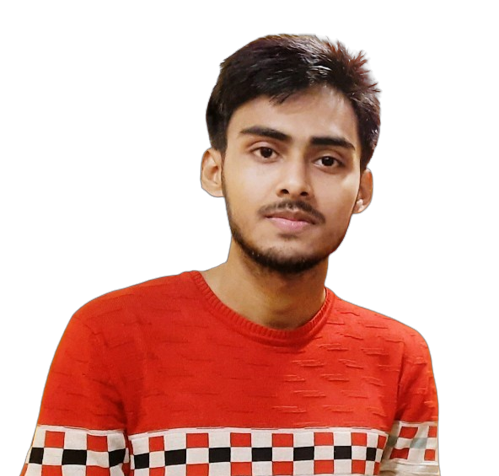
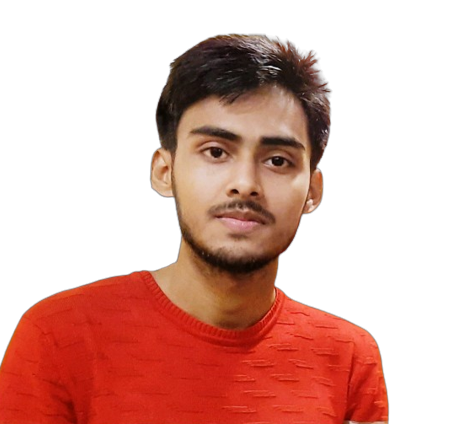
profile image modified with some css works

diff --git a/src/Pages/ProjectDetail/ProjectDetail.js b/src/Pages/ProjectDetail/ProjectDetail.js
@@ -64,11 +64,11 @@ const ProjectDetail = () => {
         <section className='bg-primary text-white lg:flex lg:px-20'>
 
             <div className='flex flex-col gap-4 py-10 lg:px-10 text-center px-20 t-0 b-0 lg:fixed z-10 w-full lg:w-2/12'>
-                <a href={gitClient} target='_blank' rel='noreferrer' className='border-2 border-orange-600 hover:bg-green-800 mx-5 lg:mx-0 py-2 lg:px-5 lg:py-2 text-orange-400 hover:text-white'>GitHub client</a>
+                <a href={gitClient} target='_blank' rel='noreferrer' className='border-2 border-teal-600  mx-5 lg:mx-0 py-2 lg:px-5 lg:py-2 text-white hover:text-orange-500'>GitHub Client</a>
 
-                <a href={gitServer} target='_blank' rel='noreferrer' className='border-2 border-orange-600 hover:bg-green-800 mx-5 lg:mx-0 py-2 text-orange-400 lg:px-5 lg:py-2 hover:text-white'>GitHub server</a>
+                <a href={gitServer} target='_blank' rel='noreferrer' className='border-2 border-teal-600 mx-5 lg:mx-0 py-2 lg:px-5 lg:py-2 text-white hover:text-orange-500'>GitHub Server</a>
 
-                <a href={liveSite} target='_blank' rel='noreferrer' className='border-2 border-orange-600 bg-green-800 mx-5 lg:mx-0 py-2 hover:bg-green-600 lg:px-5 lg:py-2 text-white'>Live Site</a>
+                <a href={liveSite} target='_blank' rel='noreferrer' className='border-2 border-teal-600 mx-5 lg:mx-0 py-2 lg:px-5 lg:py-2 text-white hover:text-orange-500'>Live Site</a>
             </div>
 
             <div className='flex flex-col gap-4 py-10 mx-4 lg:w-full lg:mx-0 relative'>

diff --git a/src/Pages/Contact/Contact.js b/src/Pages/Contact/Contact.js
@@ -20,7 +20,7 @@ const Contact = () => {
         <section className='px-5 py-10 lg:px-40 lg:py-20' id="contact">
 
             <div className='mb-10 lg:mb-20'>
-                <h1 className='text-5xl text-secondary font-semibold'>Contact <span className='text-orange-600'>Me</span></h1>
+                <h1 className='text-5xl text-secondary font-semibold'>Contact <span className='text-orange-500'>Me</span></h1>
                 <h1 className='text-lg text-gray-400'>Get in touch with me</h1>
             </div>
 
@@ -79,7 +79,7 @@ const Contact = () => {
                                 <textarea name='message' rows="4" placeholder='Type Your Message' className='form-control bg-[#EFEFEF] w-full mt-2 py-4 px-3 outline-none rounded-sm' required />
                             </div>
 
-                            <input type="submit" value="Send Message" className='form-control btn bg-orange-500 hover:bg-orange-600 text-white w-2/4 lg:w-1/3 py-3 lg:px-8 mt-5 rounded-sm font-bold' />
+                            <input type="submit" value="Send Message" className='form-control btn bg-orange-600 hover:bg-orange-500 text-white w-2/4 lg:w-1/3 py-3 lg:px-8 mt-5 rounded-sm font-bold' />
                         </div>
 
                     </form>

diff --git a/src/Pages/Skills/Skills.js b/src/Pages/Skills/Skills.js
@@ -34,8 +34,8 @@ const Skills = () => {
 
                 <h1 className='text-5xl text-secondary pb-10'><span className='text-orange-500'>About </span>Me </h1>
 
-                <div className='text-secondary lg:w-2/4'>
-                    <p className='text-lg'>Hi there, I'm Md. Mehedi Al Mamun with solid knowledge of Frontend Web Development. My knowledge enables me to create modern & eye-catching responsive websites. I am looking to start my career as an entry-level software engineer with a reputed firm driven by technology. I like to challenge myself to learn new things / new technologies.</p>
+                <div className='text-secondary rounded-md bg-gray-700 lg:w-2/4'>
+                    <p className='text-lg px-2 py-3'>Hi there, I'm Md. Mehedi Al Mamun with solid knowledge of Frontend Web Development. My knowledge enables me to create modern & eye-catching responsive websites. I am looking to start my career as an entry-level software engineer with a reputed firm driven by technology. I like to challenge myself to learn new technologies.</p>
                 </div>
 
                 <h1 className='text-2xl text-secondary pt-10 pb-5'>My Development Skills :</h1>

diff --git a/src/Pages/Home/HomeDetails.js b/src/Pages/Home/HomeDetails.js
@@ -24,7 +24,7 @@ const HomeDetails = () => {
                 <center>
                     <div className='lg:px-5 lg:py-10 pt-10 pb-20 lg:w-1/2'>
                         <h2>
-                            <div className='text-4xl text-secondary'>{state.titleOne}</div>
+                            <div className='text-4xl text-secondary font-semibold'>{state.titleOne}</div>
                         </h2>
 
                         <div className='text text-xl text-secondary mt-4'>
@@ -42,7 +42,7 @@ const HomeDetails = () => {
 
                         <div className='mt-10'>
                             <a href="Mehedi_Resume.pdf" download="Mehedi_Resume.pdf" className='inline-block'>
-                                <button className='flex items-center text-lg px-10 py-1 bg-teal-700 text-white rounded-3xl hover:bg-teal-600'>
+                                <button className='flex items-center text-lg px-10 py-1 rounded text-white bg-teal-600 hover:bg-orange-500'>
                                     <p className='mr-2'>Resume</p>
                                     <FontAwesomeIcon icon={faDownload}></FontAwesomeIcon>
                                 </button>

diff --git a/src/Pages/Shared/Navbar.js b/src/Pages/Shared/Navbar.js
@@ -6,7 +6,7 @@ import { animateScroll as scroll } from "react-scroll";
 const Navbar = () => {
 
     return (
-        <section className='sticky top-0 z-50 bg-teal-600 lg:px-10'>
+        <section className='sticky top-0 z-50 bg-teal-600 lg:px-20'>
             <div class="navbar">
                 <div class="navbar-start">
                     <div class="dropdown">
@@ -33,9 +33,9 @@ const Navbar = () => {
 
                         </ul>
                     </div>
-                    <HashLink to="/home#homeDetails" class="btn btn-ghost normal-case font-bold text-2xl border-none">
+                    <HashLink to="/home#homeDetails" class="">
                         <div onClick={() => scroll.scrollToTop()}>
-                            <img className='mx-20' src={navIcon} alt="" width="55" />
+                            <img className='' src={navIcon} alt="" width="60" />
                         </div>
                     </HashLink>
                 </div>

diff --git a/src/Pages/Projects/Projected.js b/src/Pages/Projects/Projected.js
@@ -35,7 +35,7 @@ const Projected = ({ project }) => {
                     </div>
                     <br />
                     <center>
-                        <button className='btn rounded-md border-2 lg:border-none text-white w-2/3 lg:w-2/4 bg-orange-500 hover:bg-orange-600' onClick={() => navigateToProductDetail(id)}>Details</button>
+                        <button className='btn rounded-md text-white w-2/3 lg:w-2/4 bg-teal-500 hover:bg-orange-500' onClick={() => navigateToProductDetail(id)}>Details</button>
                     </center>
                 </div>
 
